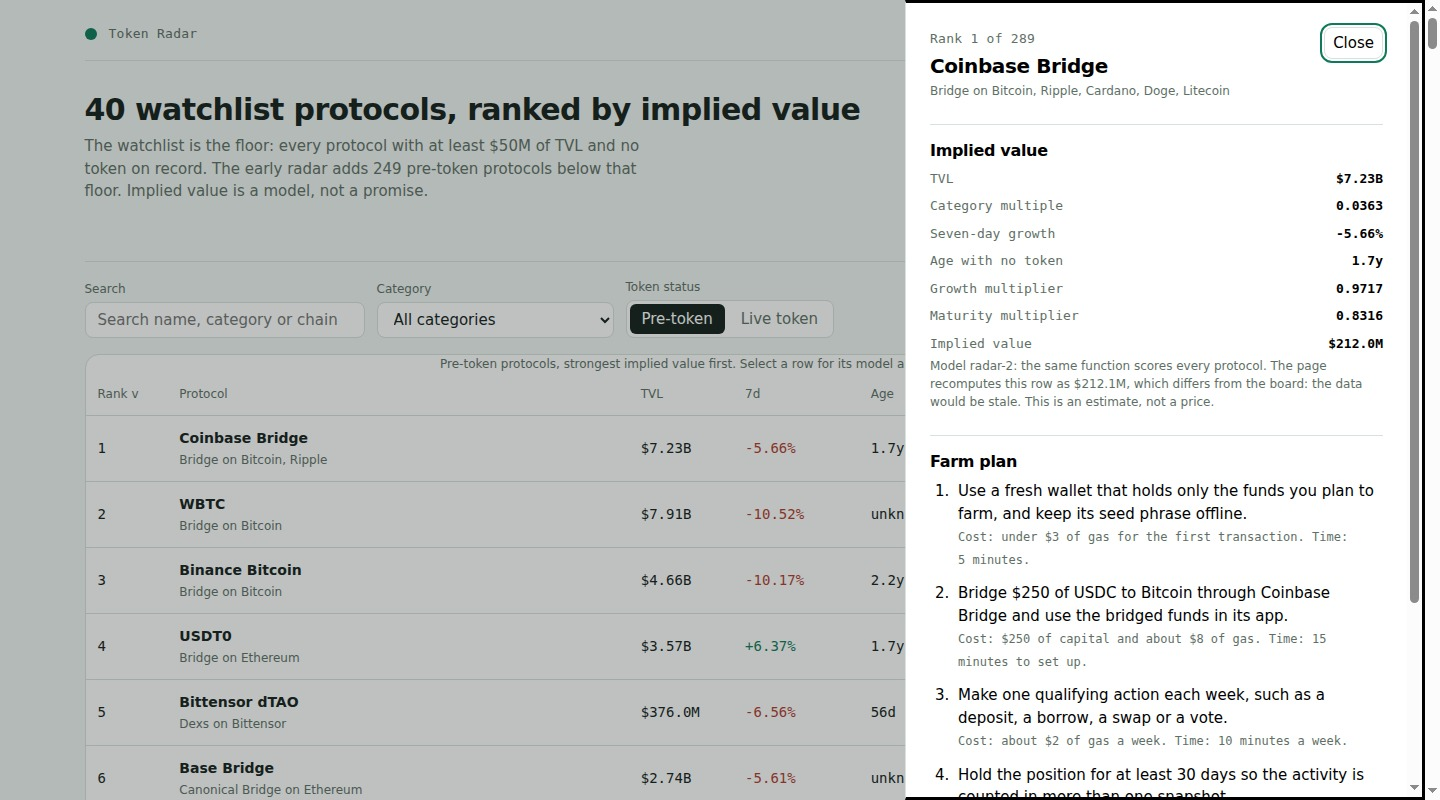
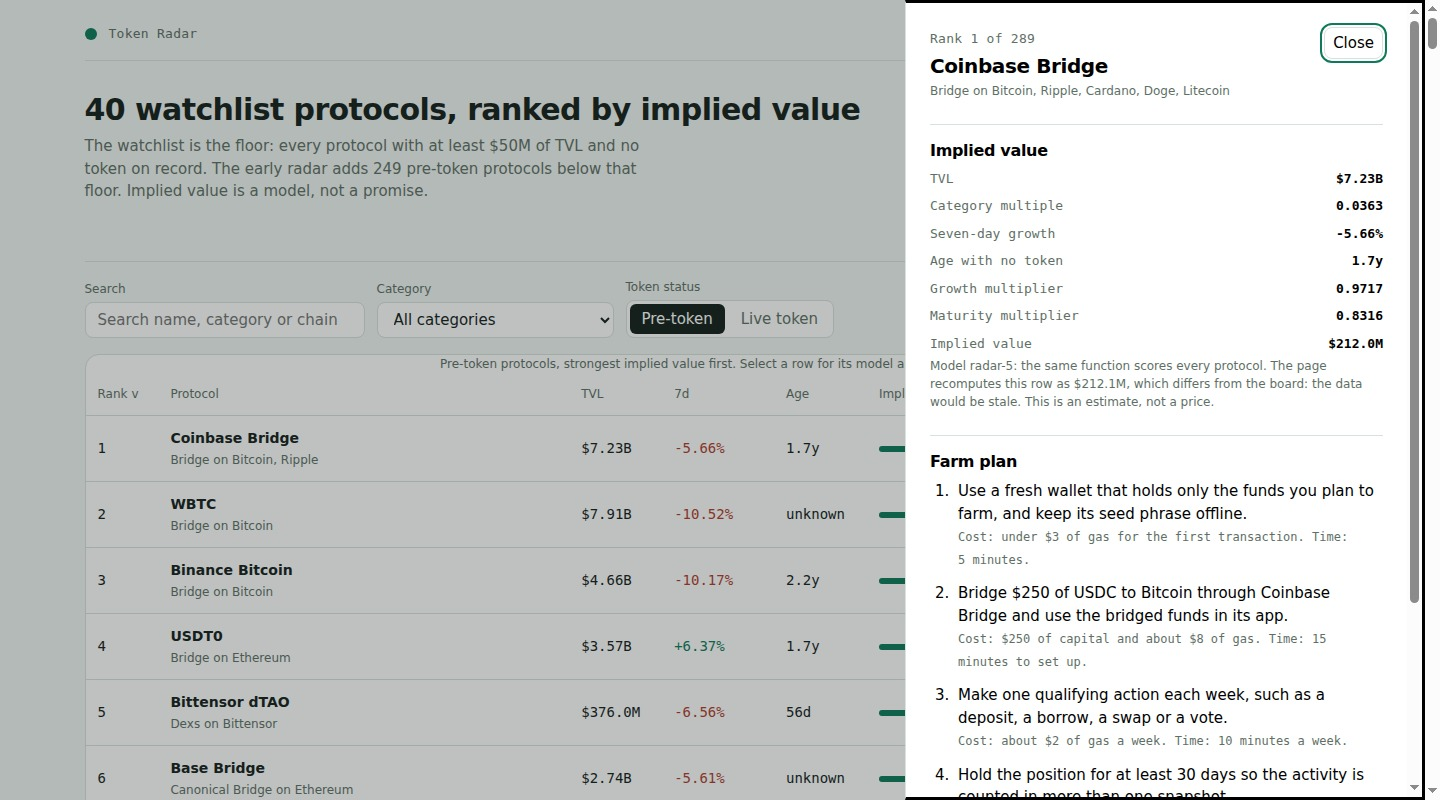
radar-5: token odds from peers' record, net-of-cost farm verdicts, verdict column

diff --git a/lib/model.ts b/lib/model.ts
@@ -127,7 +127,7 @@ function multivariateFeatures(p: SnapshotProtocol, asOf: string): [number, numbe
 }
 
 /** The model's version label: the dashboard names it and the rules quote it. */
-export const MODEL_VERSION = 'radar-3';
+export const MODEL_VERSION = 'radar-5';
 
 /** How many pre-token protocols below the watchlist floor the early radar carries, by TVL. */
 export const EARLY_ROWS = 2000;
@@ -158,6 +158,8 @@ export interface BoardRow {
   token_status: 'pre-token';
   age_days: number | null;
   implied_value_usd: number;
+  token_odds: number;
+  farm_verdict: 'farm' | 'thin' | 'skip';
   model: {
     base_multiple: number;
     growth_pct: number;
@@ -183,6 +185,9 @@ export interface RadarRow {
   listed_at: string | null;
   age_days: number | null;
   implied_value_usd: number;
+  token_odds: number;
+  farm_verdict: 'farm' | 'thin' | 'skip';
+  expected_value_usd: number;
   growth_multiplier: number;
   maturity_multiplier: number;
   multiple: number;
@@ -427,6 +432,88 @@ function bySlug(protocols: SnapshotProtocol[]): Map<string, SnapshotProtocol> {
   return new Map(protocols.map((p) => [p.slug, p]));
 }
 
+/**
+ * The odds a pre-token protocol ever records a token, from the snapshot's own record: the share
+ * of the snapshot's protocols that already carry one, adjusted per category and per TVL decile,
+ * each shrunk toward the overall share by its own peer count (the same PRIOR_WEIGHT shrinkage the
+ * size multiples use), then averaged half and half. No name is special-cased: a category whose
+ * protocols mostly launched tokens earns a higher odds, and so does a TVL band.
+ */
+export function tokenOdds(snapshot: Snapshot): (p: SnapshotProtocol) => number {
+  const total = snapshot.protocols.length;
+  const withToken = snapshot.protocols.filter((p) => !isPreToken(p)).length;
+  const overall = total > 0 ? withToken / total : 0;
+  const byCat = new Map<string, { n: number; tok: number }>();
+  for (const p of snapshot.protocols) {
+    const key = p.category ?? '~';
+    const e = byCat.get(key) ?? { n: 0, tok: 0 };
+    e.n++;
+    if (!isPreToken(p)) e.tok++;
+    byCat.set(key, e);
+  }
+  const tvls = [...snapshot.protocols].map((p) => p.tvl_usd).sort((a, b) => a - b);
+  const decileCut = (d: number): number => tvls[Math.min(tvls.length - 1, Math.floor((d * tvls.length) / 10))] ?? 0;
+  const cuts = Array.from({ length: 9 }, (_, i) => decileCut(i + 1));
+  const decileOf = (tvl: number): number => {
+    let d = 0;
+    while (d < 9 && tvl >= (cuts[d] as number)) d++;
+    return d;
+  };
+  const byDec = new Map<number, { n: number; tok: number }>();
+  for (const p of snapshot.protocols) {
+    const key = decileOf(p.tvl_usd);
+    const e = byDec.get(key) ?? { n: 0, tok: 0 };
+    e.n++;
+    if (!isPreToken(p)) e.tok++;
+    byDec.set(key, e);
+  }
+  return (p: SnapshotProtocol): number => {
+    const cat = byCat.get(p.category ?? '~') ?? { n: 0, tok: 0 };
+    const catOdds = (cat.tok + PRIOR_WEIGHT * overall) / (cat.n + PRIOR_WEIGHT);
+    const dec = byDec.get(decileOf(p.tvl_usd)) ?? { n: 0, tok: 0 };
+    const decOdds = (dec.tok + PRIOR_WEIGHT * overall) / (dec.n + PRIOR_WEIGHT);
+    const blend = 0.5 * catOdds + 0.5 * decOdds;
+    return Math.min(0.98, Math.max(0.02, blend));
+  };
+}
+
+/**
+ * The farm verdict a reader acts on: farm when the odds justify the capital and the TVL is large
+ * enough that a snapshot of activity is cheap to reach (at least the watchlist floor), thin when
+ * the odds or the size make the position marginal, skip when neither supports the gas. The verdict
+ * is a function of the row's own figures, the same evidence the board shows.
+ */
+/**
+ * The farm verdict a reader acts on, net of cost: the expected value the position farms for is the
+ * implied value times the odds the token ever comes, and the plan costs its capital plus weekly
+ * gas over its hold. Farm when the expected value clears that cost by ten times and the odds and
+ * the TVL both hold (the watchlist floor is where a snapshot of activity is cheap to reach); thin
+ * when it clears it three times; skip when it does not clear. The thresholds are stated so the
+ * reader can disagree with them, and the page recomputes every row's verdict from the same numbers
+ * the board shows.
+ */
+export function farmVerdict(p: SnapshotProtocol, odds: number, implied: number): 'farm' | 'thin' | 'skip' {
+  const hold = holdDaysFor(p.listed_at ? ageDaysFromListed(p.listed_at) : null);
+  const capital = capitalFor(p);
+  const cost = capital + 2 * Math.ceil(hold / 7) + (capital >= 150 ? 8 : 4);
+  const expected = implied * odds;
+  if (expected >= 10 * cost && p.tvl_usd >= snapshotFloor(p) && odds >= 0.3) return 'farm';
+  if (expected >= 3 * cost && odds >= 0.2) return 'thin';
+  return 'skip';
+}
+
+/** A protocol's age in days from its listed_at alone, at a fixed epoch the dashboard agrees with. */
+function ageDaysFromListed(listedAt: string): number {
+  const t = Date.parse(listedAt);
+  if (Number.isNaN(t)) return 365;
+  return Math.max(0, Math.round((Date.UTC(2026, 10, 14) - t) / 86_400_000));
+}
+
+/** The snapshot's own watchlist floor, as a TVL a farm position can lean on. */
+function snapshotFloor(p: SnapshotProtocol): number {
+  return 50_000_000;
+}
+
 /** The protocols the board ranks, strongest first, with ranks 1..n. */
 export function buildBoard(snapshot: Snapshot, model: ModelConstants = MODEL): BoardRow[] {
   const index = bySlug(snapshot.protocols);
@@ -453,6 +540,7 @@ export function buildBoard(snapshot: Snapshot, model: ModelConstants = MODEL): B
     return { p, implied, growthPct, growthMult, maturityMult, age };
   });
   scored.sort((a, b) => b.implied - a.implied || (a.p.slug < b.p.slug ? -1 : a.p.slug > b.p.slug ? 1 : 0));
+  const odds = tokenOdds(snapshot);
   return scored.map((s, i) => ({
     rank: i + 1,
     slug: s.p.slug,
@@ -468,6 +556,8 @@ export function buildBoard(snapshot: Snapshot, model: ModelConstants = MODEL): B
     token_status: 'pre-token',
     age_days: s.age,
     implied_value_usd: s.implied,
+    token_odds: round4(odds(s.p)),
+    farm_verdict: farmVerdict(s.p, odds(s.p), s.implied),
     model: {
       base_multiple: multipleFor(s.p, calibration),
       growth_pct: s.growthPct,
@@ -607,6 +697,9 @@ export function radarRow(row: BoardRow): RadarRow {
     listed_at: row.listed_at,
     age_days: row.age_days,
     implied_value_usd: row.implied_value_usd,
+    token_odds: row.token_odds,
+    farm_verdict: row.farm_verdict,
+    expected_value_usd: Math.round(row.implied_value_usd * row.token_odds),
     growth_multiplier: row.model.growth_multiplier,
     maturity_multiplier: row.model.maturity_multiplier,
     multiple: row.model.multiple,

diff --git a/dashboard/app.js b/dashboard/app.js
@@ -238,6 +238,8 @@
           el('div', { class: 'bar', 'aria-hidden': 'true' }, el('i', { style: 'width:' + Math.max(3, Math.round((r.implied_value_usd / max) * 100)) + '%' })),
           el('span', { class: 'num', text: fmtUsd(r.implied_value_usd) })
         )),
+        el('td', { class: 'num', text: (r.token_odds * 100).toFixed(0) + '%', title: 'The share of this snapshot\'s peers in the same category and TVL decile that ever recorded a token: the odds read from the peers\' record, never from the protocol\'s name.' }),
+        el('td', null, el('span', { class: 'status verdict ' + r.farm_verdict, text: r.farm_verdict, title: 'Net of cost: expected value (implied x odds) against the plan\'s capital and gas. farm = clears 10x, thin = clears 3x, skip = does not clear.' })),
         el('td', null, el('span', { class: 'status', text: 'no token' }))
       );
       tbody.appendChild(tr);
@@ -253,6 +255,8 @@
             sortHeader('growth', '7d'),
             sortHeader('age', 'Age'),
             sortHeader('implied', 'Implied value'),
+            el('th', { scope: 'col', text: 'Odds' }),
+            el('th', { scope: 'col', text: 'Verdict' }),
             el('th', { scope: 'col', text: 'Token' })
           )),
           tbody

diff --git a/dashboard/app.css b/dashboard/app.css
@@ -137,3 +137,11 @@ tbody tr[data-selected="true"] { background: color-mix(in srgb, var(--accent) 8%
 @media (prefers-reduced-motion: reduce) {
   *, *::before, *::after { transition-duration: 0.01ms !important; animation-duration: 0.01ms !important; animation-iteration-count: 1 !important; }
 }
+/* The verdict column: three states, one accent each, so the board reads at a glance. */
+.status.verdict { font-weight: 600; }
+.status.verdict.farm::before { background: #1a7f37; }
+.status.verdict.thin::before { background: #b58105; }
+.status.verdict.skip::before { background: #a12622; }
+.status.verdict.farm { color: #1a7f37; }
+.status.verdict.thin { color: #8a6100; }
+.status.verdict.skip { color: #6e2222; }
